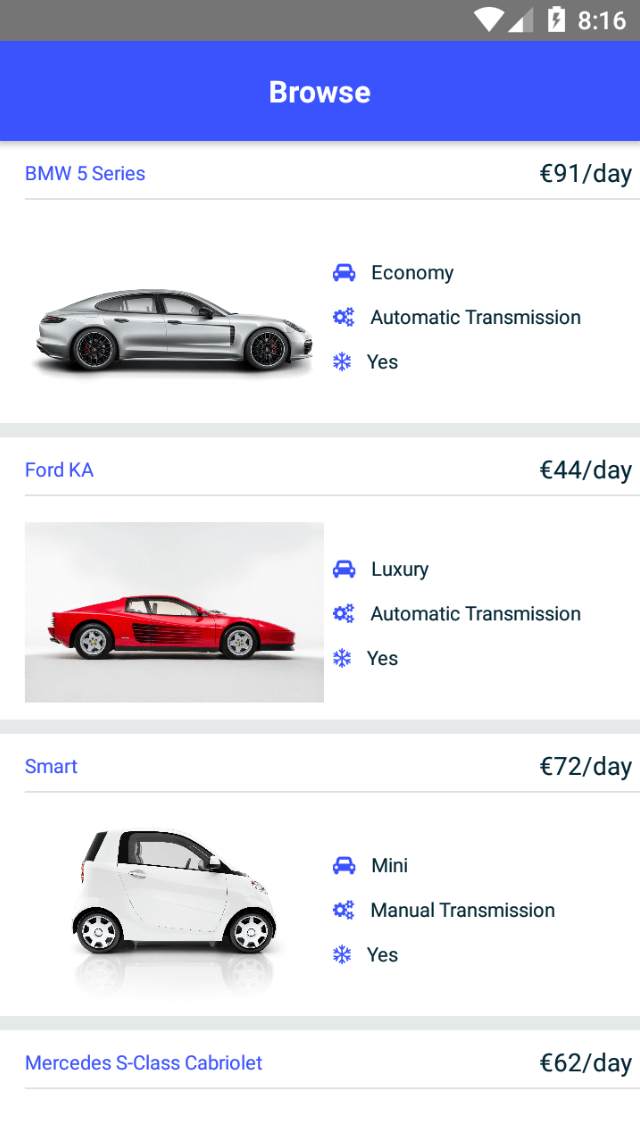
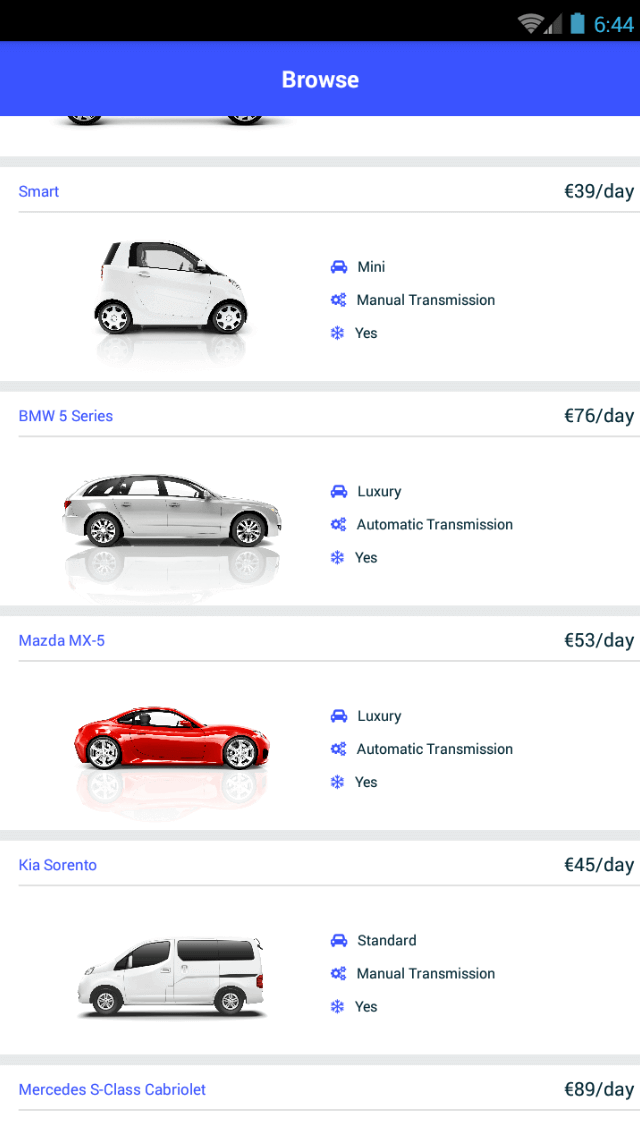
Assets images (#41)
* Assets images

Update images for "create app" in the Fusion ui
Add new images for readme with phone

* Convert to 8bit png

* Update ios images

Changed region(s): [[0.0, 0.185, 1.0, 0.9868], [0.0, 0.0, 1.0, 0.185], [0.875, 0.7401, 1.0, 0.7709]]

diff --git a/README.md b/README.md
@@ -3,7 +3,7 @@ App templates help you jump start your native cross-platform apps with built-in 
 
 This Master-Detail template is a fundamental building block for any app that displays collection of objects and their details and need to work both in online and offline mode while utilizing Firebase as a backend.
 
-<img src="/tools/assets/masterDetail-ios.png" height="400" />
+<img src="/tools/assets/phone-masterDetail-ios.png" height="400" /><img src="/tools/assets/phone-masterDetail-detail-ios.png" height="400" />
 
 ## Key Features
 - Editable master-detail interface
